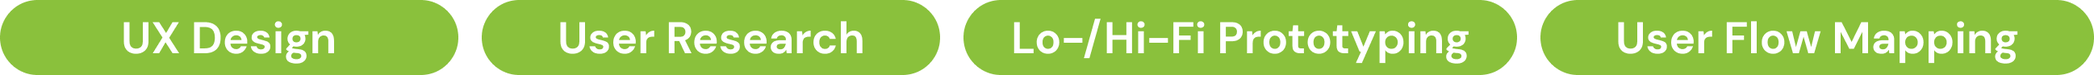
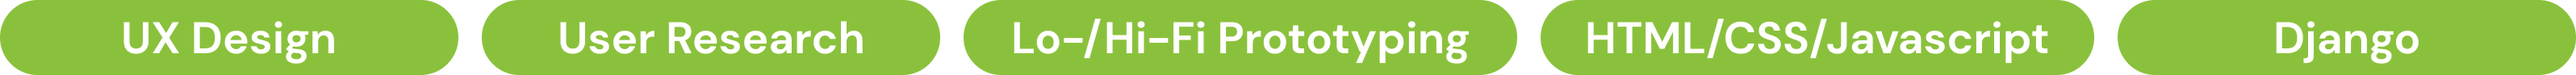
tutoring update

diff --git a/tutoring.html b/tutoring.html
@@ -47,29 +47,45 @@
 				<!-- Main -->
 					<div id="main">
 						<div class="inner">
+										
 							<h1>Build Our Bridge Academy</h1>
 							<span class="image main"><img src="images/bobtutorindex.png" alt="" /></span>
-							<span class="image main"><img src="images/bobtutorkeywords.png" alt="" style="width: 60%; height: 60%;" /></span>							<br>
-							<h4>💻 Website redesign and development</h4>
-							<br>
-
-							<h3><strong> 💡 Overview </strong></h3>
-							<p><strong><a href="https://bobtutor.org/about-us" target="_blank">Build Our Bridge Academy</a></strong> is a non-profit organization dedicated to offering free tutoring in English, Math, Science, Coding, Music, and Art to underprivileged students from countries all over the world. 								I volunteered as a tutor for the organization throughout high school, and this summer, I worked with two other former leaders to redesign and build a new website for them.
-								<br>
-								<br> The aim of this project was to enhance usability and improve the overall user experience, focusing on time-keeping and messaging features for students and tutors, while also considering scalability and ease of maintenance for the future. 
-								We are currently in the development stage of the project, using React and Django to implement the website.</p>
-							<h3>🔆 Roles</h3>
-							As a UX Designer and Full-Stack Developer for the website redesign, I was responsible for enhancing both the design and functionality of the platform. I created a visually appealing, user-friendly interface that improved navigation and usability, 
-							with a focus on time-keeping and messaging features. 
-								<br>
-								<br>
-								<strong>🛠 Tools & Methodology:</strong> <br>  ✦ User Research <br>  ✦ Figma <br>  ✦ Wireframing <br>  ✦ User Flow Mapping <br>  ✦ Low-Fi Prototyping <br>  ✦ Hi-Fi Prototyping <br>  ✦ HTML/CSS/Javascript
-								<br>
-								<br>
-	
+							<span class="image main"><img src="images/bobtutorkeywords.png" alt="" style="width: 70%; height: 70%;" /></span>							<br>
+							
+							<div class="project-overview">
+								<div class="overview-section">
+									<h3><strong> 💡 Overview </strong></h3>
+									<p><strong><a href="https://bobtutor.org/about-us" target="_blank">Build Our Bridge Academy</a></strong> is a non-profit organization dedicated to offering free tutoring in English, Math, Science, Coding, Music, and Art to underprivileged students from countries around the world. 
+										I volunteered as a tutor for the organization throughout high school, and his summer, I collaborated with two former leaders to redesign and build a new website for them.
+										<br><br> The aim of this project was to improve the overall user experience for students and tutors, focusing on time-keeping and messaging features for students and tutors while also considering scalability and ease of maintenance for the future. 
+										We are currently in the development stage of the project, using React, Vite, and Django to implement the website.
+									</p>
+								</div>
+							
+								<div class="details-section">
+									<div class="project-details">
+										<div class="detail-item">
+											<span class="title">Role</span>
+											<div class="description">UX Designer and Full Stack Developer</div>
+										</div>
+										<hr class="separator">
+										<div class="detail-item">
+											<span class="title">Tools & Methodology</span>
+											<div class="description">User Research, Figma, Wireframing, User Flow Mapping, Low-Fi/Hi-Fi Prototyping, HTML/CSS/Javascript</div>
+										</div>
+										<hr class="separator">
+										<div class="detail-item">
+											<span class="title">Timeline</span>
+											<div class="description">Jun 2024—Ongoing</div>
+										</div>
+									</div>
+								</div>
+							</div>
+							
 							<h3>🌱 Current Website Experience</h3>
-							The existing website, while functional, had several pain points that hindered its effectiveness, including a disorganized user interface and tedious navigation. Key functions like time-keeping and messaging were difficult to use, and 
-							there were many unnecessary features—such as sales reports, pricing, and reviews—built into the user dashboard, despite there being no practical use for them.
+							The existing website, while functional, had several issues that affected its effectiveness for organization leaders, students, and tutors.
+							The homepage was divided into numerous sections, making navigation and quick access to information challenging. Additionally, the user dashboard included many unnecessary 
+							features—such as sales reports, pricing, and reviews—that served no practical purpose and contributed to user confusion.
 
 							<br>
 							<span class="image main"><img src="images/currentexperience.png" alt="" /></span>
@@ -77,13 +93,14 @@
 
 
 							<h3>👥 User Research</h3>
-							To better understand the users' needs, I surveyed current students, tutors, and leaders to gather their opinions on specific aspects of the website and their overall user experience. Through the survey, I sought to collect insights 
-							that would guide the redesign process and ensure the new website would include improved features that cater to users' preferences and needs.
+							To gain a deeper understanding of user needs, I surveyed current students, tutors, and leaders about their experiences with the website. This survey aimed to gather their feedback on specific 
+							features and overall usability, and the insights collected were instrumental in guiding the redesign process, ensuring that the new website would incorporate enhancements that better align with users' preferences and requirements.
 							<br>
 							<br>
 							<img src="images/bobtutorresearch.png" alt="" style="width:60%; height:auto; margin:10px; float:right;">
 
 							<p style="float:right; margin-right:10px;"><p><strong>🔧 Survey Focus Areas:</strong>
+								<br>
 								<br>❓ Overall satisfaction with the current website
 								<br>❓  Usage patterns for time-keeping and messaging features
 								 <br>❓ Specific pain points with current functionalities
@@ -97,16 +114,20 @@
 								<br>
 						
 							<h3><strong> 🖋 Design Ideation and Wireframing</strong></h3>
-							<p>	I redesigned the landing page and information sections to be more welcoming and informative, with clear navigation to key sections such as registration and login. 
-								This new user flow ensures that visitors can easily find and access the features they need with minimal clicks. I used Figma to create low-fidelity wireframes that 
-								map out the structure of the new website, focusing on ease of use with a clean layout and intuitive structure.
+							<p>	Based on the insights gathered from the user research, I brainstormed website designs that addressed the identified pain points. 
+								I streamlined the homepage by consolidating information and sections, removing unnecessary features, and simplifying the user dashboard to enhance navigation and overall user experience.
+								I redesigned the landing page and information sections to be more welcoming and informative, with straightforward navigation to key areas like registration and login. 
+								This new user flow allows visitors to quickly find and access the features they need with minimal clicks.
 							</p>
 							<span class="image main"><img src="images/bobtutor.png" alt="" /></span>
+
+							I used Figma to design a set of low-fidelity wireframes that outline the structure of the new website. These wireframes focus on ease of use, featuring a clean layout and intuitive structure.
+								
 							<span class="image main"><img src="images/low-fi.png" alt="" /></span>
 							<p><i>Website redesign: low-fi wireframes</i></p>
 
 							<h3><strong> 💫 Final Design </strong></h3>
-							<p>I then refined the low-fidelity wireframes into high-fidelity versions that included graphics, various forms of content, and visual hierarchy.
+							<p>Next, I refined the low-fidelity wireframes into high-fidelity versions, incorporating graphics, organized content, and a clear visual hierarchy.
 							</p>
 							<span class="image main"><img src="images/landingabout.png" alt="" /></span>
 							<span class="image main"><img src="images/homepagesfinal.png" alt="" /></span>
@@ -115,7 +136,8 @@
 							<h3><strong> ✅ Student and Instructor Profiles </strong></h3>
 							<p>I designed the new dashboard to streamline the user experience by focusing on the most-used features: time-keeping and messaging. 
 								The time-keeping feature was enhanced to include a more simplified date and course selection process, while the messaging system was redesigned to be more user-friendly and accessible.
-
+								To simplify development and enhance usability, I created a consistent design for both tutors and learners. The learners' dashboard served as the foundation, 
+								while I added extra features to the tutors' dashboard as necessary.
 							</p>
 							<span class="image main"><img src="images/instructorprofile.png" alt="" /></span>
 							<span class="image main"><img src="images/studentprofile.png" alt="" /></span>

diff --git a/assets/css/main.css b/assets/css/main.css
@@ -7,6 +7,82 @@
 	Free for personal and commercial use under the CCA 3.0 license (html5up.net/license)
 */
 
+
+.project-overview {
+    display: flex;
+    justify-content: space-between;
+    align-items: flex-start;
+    margin-top: 20px;
+}
+
+.overview-section {
+    flex: 0 0 70%; /* 60% width for the Overview section */
+    margin-right: 50px; /* Space between Overview and Details sections */
+}
+
+.details-section {
+    flex: 0 0 30%; /* 40% width for the Role, Tools, and Timeline section */
+}
+
+.project-details {
+    margin-top: 20px;
+}
+
+.detail-item {
+    display: flex;
+    align-items: baseline;
+    margin-bottom: 5px;
+}
+
+.title {
+    font-family: 'DM Sans', sans-serif;
+    font-size: 0.8em;
+    font-weight: bold;
+    color: #585858; /* Dark gray */
+    margin-right: 40px;
+    text-transform: uppercase;
+}
+
+.description {
+    padding-top: 1.1em; /* or any value you prefer */
+    font-size: 0.9em; /* same as body/p font size */
+    font-weight: 300; /* same as body/p font weight */
+    line-height: 1.75; /* same as body/p line height */
+    margin: 0 0 2em 0; /* same as p margin */
+    text-transform: none; /* remove uppercase transform */
+    letter-spacing: 0; /* remove letter spacing */
+	margin-bottom: 0.6em;
+}
+
+.separator {
+    border: none;
+    border-top: 1px solid #e0e0e0; /* Very light gray */
+    padding: 0;
+    margin: 2px 0;
+}
+
+/* Media Query for Smaller Screens */
+@media (max-width: 768px) {
+    .project-overview {
+        flex-direction: column; /* Stack vertically */
+    }
+
+    .overview-section,
+    .details-section {
+        flex: 0 0 100%; /* Full width for both sections */
+        margin-right: 0; /* Remove margin between sections */
+        margin-bottom: 20px; /* Add space between sections */
+    }
+
+    .title {
+        margin-right: 0; /* Remove margin for smaller screens */
+    }
+}
+
+
+
+
+
 html, body, div, span, applet, object,
 iframe, h1, h2, h3, h4, h5, h6, p, blockquote,
 pre, a, abbr, acronym, address, big, cite,

diff --git a/elementsforref.html b/elementsforref.html
@@ -64,6 +64,8 @@
 									<h2>Heading Level 2</h2>
 									<h3>Heading Level 3</h3>
 									<h4>Heading Level 4</h4>
+									<h5>Heading Level 5</h5>
+									<h6>Heading Level 6</h6>
 									<hr />
 									<h3>Blockquote</h3>
 									<blockquote>Fringilla nisl. Donec accumsan interdum nisi, quis tincidunt felis sagittis eget tempus euismod. Vestibulum ante ipsum primis in faucibus vestibulum. Blandit adipiscing eu felis iaculis volutpat ac adipiscing accumsan faucibus. Vestibulum ante ipsum primis in faucibus lorem ipsum dolor sit amet nullam adipiscing eu felis.</blockquote>
